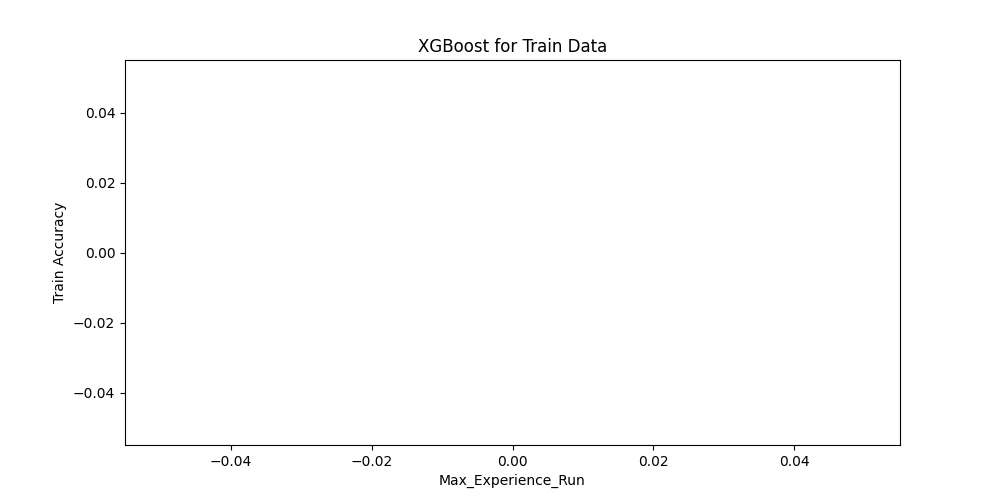
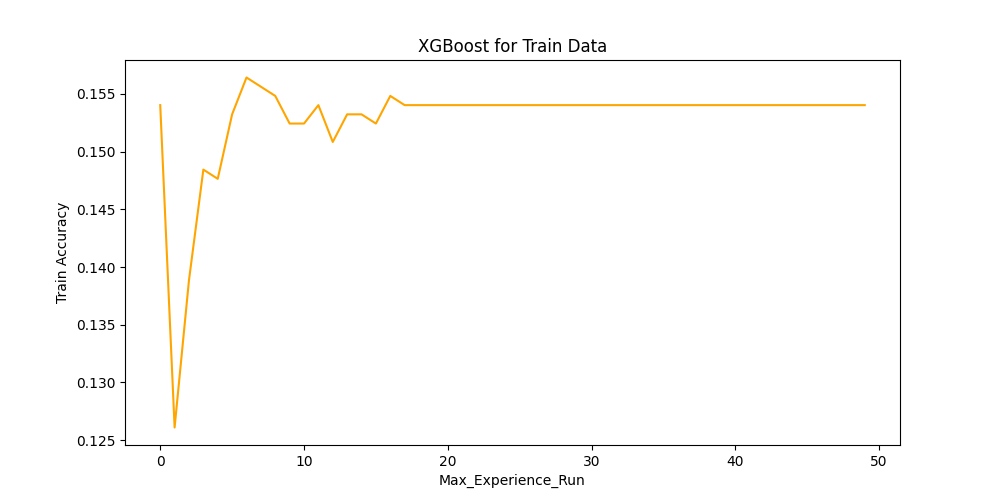
XGBoost accuracy finish

diff --git a/main.py b/main.py
@@ -9,6 +9,8 @@ import numpy as np
 import pandas as pd
 import matplotlib.pyplot as plt
 import xgboost as xgb
+import matplotlib as mpl
+mpl.rcParams['figure.max_open_warning'] = 0
 
 from sklearn.model_selection import train_test_split
 from sklearn.tree import DecisionTreeClassifier
@@ -19,6 +21,9 @@ from sklearn.ensemble import RandomForestClassifier
 from sklearn.metrics import log_loss
 from sklearn.ensemble import GradientBoostingClassifier
 from sklearn import ensemble
+from sklearn.preprocessing import LabelEncoder
+
+
 
 
 
@@ -105,13 +110,16 @@ def tree_choose(data,numebr_depth):
     arr_tr = np.zeros(numebr_depth)
     arr_t = np.zeros(numebr_depth)
     for i in range(1,numebr_depth+1):
-        X_train, X_test, y_train, y_test = splitdataset(data)
-        decision_tree = DecisionTreeClassifier(max_depth=i, criterion='gini')
-        decision_tree.fit(X_train, y_train)
-        acc_tr = accuracy_score(y_true=y_train, y_pred=decision_tree.predict(X_train))
-        acc_t =  accuracy_score(y_true=y_test, y_pred=decision_tree.predict(X_test))
-        arr_tr[i-1] = acc_tr
-        arr_t[i-1] = acc_t
+        buff_tr = np.zeros(5)
+        buff_t = np.zeros(5)
+        for j in range(5):
+            X_train, X_test, y_train, y_test = splitdataset(data)
+            decision_tree = DecisionTreeClassifier(max_depth=i, criterion='gini')
+            decision_tree.fit(X_train, y_train)
+            buff_tr[j] = accuracy_score(y_true=y_train, y_pred=decision_tree.predict(X_train))
+            buff_t[j] =  accuracy_score(y_true=y_test, y_pred=decision_tree.predict(X_test))
+        arr_tr[i-1] = buff_tr.mean()
+        arr_t[i-1] = buff_t.mean()
     plt.figure(figsize=(10, 5))
     plt.plot([i for i in range(numebr_depth)], arr_tr, c='orange')
     plt.title('Decision Tree for Train Data')
@@ -179,14 +187,10 @@ def pre_prunig(X_train, X_test, y_train, y_test):
 def random_forest_make(X_train, X_test, y_train, y_test,number_tree):
     arr_tr = np.zeros(number_tree)
     for i in range(1, number_tree + 1):
-        buff_tr = np.zeros(5)
-        for j in range(5):
-            random_forest = RandomForestClassifier(n_estimators=i, max_leaf_nodes=16, n_jobs=-10)
-            random_forest.fit(X_train, y_train)
-            y_pred = random_forest.predict(X_test)
-            buff_tr[j] = accuracy_score(y_test,y_pred)
-        arr_tr[i-1] = buff_tr.mean()
-
+        random_forest = RandomForestClassifier(n_estimators=i, max_leaf_nodes=16, n_jobs=-10)
+        random_forest.fit(X_train, y_train)
+        y_pred = random_forest.predict(X_test)
+        arr_tr[i-1] = accuracy_score(y_test,y_pred)
     plt.figure(figsize=(10, 5))
     plt.plot([i for i in range(number_tree)], arr_tr, c='orange')
     plt.title('Random Forest for Train Data')
@@ -229,23 +233,23 @@ def GDBT(X_train, X_test, y_train, y_test):
     plt.legend(loc='upper left')
     plt.xlabel('Boosting Iterations')
     plt.ylabel('Test Set Deviance')
-
     plt.savefig('GDBT.png')
 
-def XGBoost(X_train, X_test, y_train, y_test, expruns):
-    clf_tr = xgb.DMatrix(X_train, y_train, enable_categorical=True)
-    clf_t = xgb.DMatrix(X_test, y_test, enable_categorical=True)
+def XGBoost(data, expruns):
+
+    # clf_tr = xgb.DMatrix(X_train, y_train, enable_categorical=True)
+    # clf_t = xgb.DMatrix(X_test, y_test, enable_categorical=True)
+
     arr_xgb = np.zeros(expruns)
-    for i in range(1, expruns + 1):
-        buff_xgb = np.zeros(5)
-        for j in range(5):
-            xgb_classifier = xgb.XGBClassifier(n_estimators=100, objective='binary:logistic', tree_method='hist',
-                                               eta=0.1,
-                                               max_depth=3, enable_categorical=True)
-            xgb_classifier.fit(X_train, y_train)
-            y_pred = xgb_classifier.predict(X_test)
-            buff_xgb[j] = accuracy_score(y_pred, y_test)
-        arr_xgb[i - 1] = buff_xgb.mean()
+    for i in range(0, expruns):
+        X_train, X_test, y_train, y_test = splitdataset(data)
+        le = LabelEncoder()
+        y_train = le.fit_transform(y_train)
+        xgb_classifier = xgb.XGBClassifier(colsample_bytree = 0.3, learning_rate = 0.1,
+            max_depth = i, alpha = 5, n_estimators = 100)
+        xgb_classifier.fit(X_train, y_train)
+        y_pred = xgb_classifier.predict(X_test)
+        arr_xgb[i] = accuracy_score(y_test, y_pred)
 
     plt.figure(figsize=(10, 5))
     plt.plot([i for i in range(expruns)], arr_xgb, c='orange')
@@ -294,8 +298,7 @@ def main():
     GDBT( X_train, X_test, y_train, y_test)
 
     #XGBoost
-    for i in range(0, expruns):
-        XGBoost(X_train, X_test, y_train, y_test, i)
+    XGBoost(data, expruns)
 
 
 
